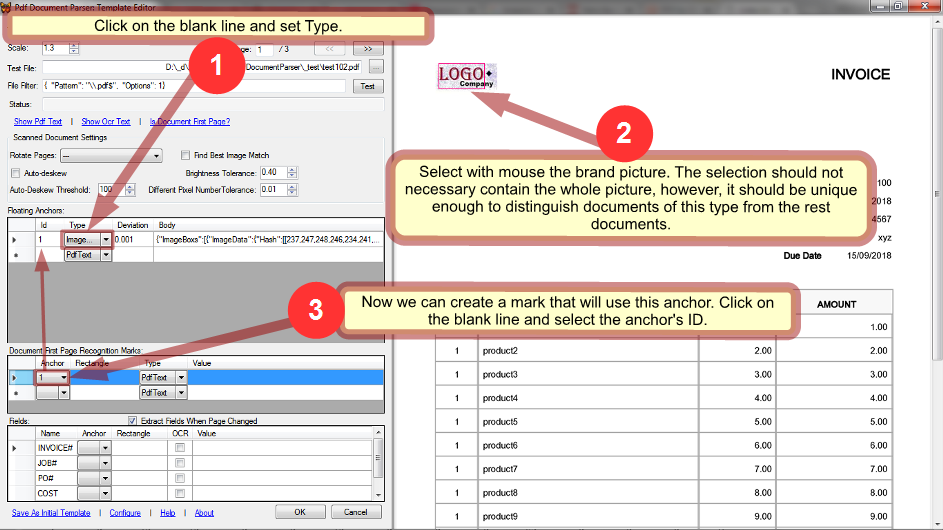
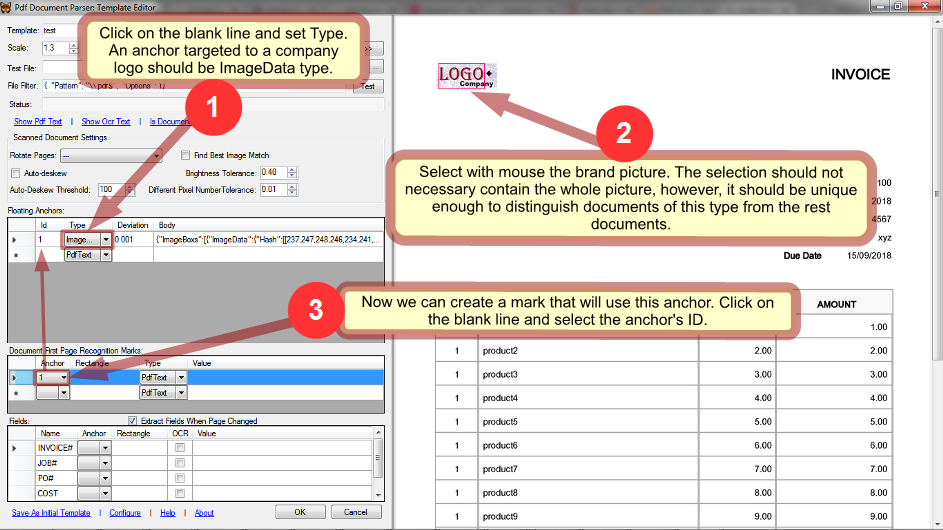
.

Changed region(s): [[0.0, 0.0, 0.4613, 0.4226]]

diff --git a/help/help/tutorial/index.html b/help/help/tutorial/index.html
@@ -19,10 +19,10 @@
 <p>How do those anchor and mark work inside the parser? In every page Parser looks for the fragment defined by the anchor. Depending on its type it can be either PDF text, OCR'ed text, or image. Each of types is processed by its own very different way and so choosing the right type is crucial in successful and robust parsing. The logo in our example document is an image that is why we set anchor's type to ImageData. This means that Parser will look for the image we selected while creating the anchor. 
 <p>An anchor can be found anywhere on page. In general way, having an anchor found, Parser takes the selecting rectangle specified by a mark linked to this anchor and locates it relatively to the anchor's position in page. Then Parser compares a text surrounded by the rectangle with the text defined in the mark and when they are equal, the mark is considered found. 
 <p>But a mark does not obligatory have a selecting rectangle specified. In such a simpler case it is considered found just when its anchor found. It is the case in our example: Parser will look for the logo image and if found, it will choose this template for processing of the document.
-<br><br><p>Now, besides the first mark which is a must, a template usually needs one more mark that will check number of document page. It is necessary when parsing a multi-document PDF file: when Parser finds such a mark, all the previously found fields are recorded and reset.
+<br><br><p>In addition to the first mark which is a must, a template usually needs one more mark that checks if a page is page 1 of a document. It is necessary when parsing a multi-document PDF file: when Parser finds such a mark, all the previously found fields are recorded and reset.
 <p class='screenshot_title'>So let's create a first page recognition mark:
 <img src='3.png'/>
-<p>Our template has 2 marks that can recognize type and first page of document. Sometimes more mark is required: for instance when we need to parse different type documents issued by the same company. In our example 2 marks we created are sufficient though. 
+<p>Now our template has 2 marks that can recognize type and first page of document. Sometimes more mark is required: for instance when we need to parse different type documents issued by the same company. In our example 2 marks we created are sufficient though. 
 <p><span class='attention'>NOTE: </span>when you select a line in either table, Parser processes it on the current page and the result is displayed in the page viewer and in Status.
 
 <h2>3. Create fields</h2>

diff --git a/InvoiceParser/MainForm.Designer.cs b/InvoiceParser/MainForm.Designer.cs
@@ -28,7 +28,7 @@
         /// </summary>
         private void InitializeComponent()
         {
-            System.Windows.Forms.DataGridViewCellStyle dataGridViewCellStyle4 = new System.Windows.Forms.DataGridViewCellStyle();
+            System.Windows.Forms.DataGridViewCellStyle dataGridViewCellStyle1 = new System.Windows.Forms.DataGridViewCellStyle();
             this.bAbout = new System.Windows.Forms.Button();
             this.bInputFolder = new System.Windows.Forms.Button();
             this.bOutputFolder = new System.Windows.Forms.Button();
@@ -57,6 +57,7 @@
             this.flowLayoutPanel2 = new System.Windows.Forms.FlowLayoutPanel();
             this.namePattern = new System.Windows.Forms.TextBox();
             this.groupBox1 = new System.Windows.Forms.GroupBox();
+            this.label10 = new System.Windows.Forms.Label();
             this.useNamePattern = new System.Windows.Forms.CheckBox();
             this.useGroupPattern = new System.Windows.Forms.CheckBox();
             this.useActivePattern = new System.Windows.Forms.CheckBox();
@@ -70,12 +71,11 @@
             this.groupPattern = new System.Windows.Forms.TextBox();
             this.label4 = new System.Windows.Forms.Label();
             this.groupBox2 = new System.Windows.Forms.GroupBox();
-            this.label9 = new System.Windows.Forms.Label();
             this.applyActiveChange = new System.Windows.Forms.Button();
             this.applyGroupChange = new System.Windows.Forms.Button();
             this.activeChange = new System.Windows.Forms.CheckBox();
             this.groupChange = new System.Windows.Forms.TextBox();
-            this.label10 = new System.Windows.Forms.Label();
+            this.label9 = new System.Windows.Forms.Label();
             ((System.ComponentModel.ISupportInitialize)(this.templates)).BeginInit();
             this.flowLayoutPanel1.SuspendLayout();
             this.flowLayoutPanel2.SuspendLayout();
@@ -214,8 +214,8 @@
             // Name_
             // 
             this.Name_.AutoSizeMode = System.Windows.Forms.DataGridViewAutoSizeColumnMode.AllCells;
-            dataGridViewCellStyle4.Alignment = System.Windows.Forms.DataGridViewContentAlignment.TopLeft;
-            this.Name_.DefaultCellStyle = dataGridViewCellStyle4;
+            dataGridViewCellStyle1.Alignment = System.Windows.Forms.DataGridViewContentAlignment.TopLeft;
+            this.Name_.DefaultCellStyle = dataGridViewCellStyle1;
             this.Name_.HeaderText = "Name";
             this.Name_.Name = "Name_";
             this.Name_.Width = 60;
@@ -383,6 +383,15 @@
             this.groupBox1.TabStop = false;
             this.groupBox1.Text = "Select";
             // 
+            // label10
+            // 
+            this.label10.AutoSize = true;
+            this.label10.Location = new System.Drawing.Point(34, 156);
+            this.label10.Name = "label10";
+            this.label10.Size = new System.Drawing.Size(40, 13);
+            this.label10.TabIndex = 39;
+            this.label10.Text = "Select:";
+            // 
             // useNamePattern
             // 
             this.useNamePattern.AutoSize = true;
@@ -509,14 +518,6 @@
             this.groupBox2.TabStop = false;
             this.groupBox2.Text = "Change Selected";
             // 
-            // label9
-            // 
-            this.label9.Location = new System.Drawing.Point(479, 406);
-            this.label9.Name = "label9";
-            this.label9.Size = new System.Drawing.Size(258, 29);
-            this.label9.TabIndex = 32;
-            this.label9.Text = "Your approval will be asked before saving templates to disk!";
-            // 
             // applyActiveChange
             // 
             this.applyActiveChange.Location = new System.Drawing.Point(15, 28);
@@ -553,14 +554,14 @@
             this.groupChange.Size = new System.Drawing.Size(192, 20);
             this.groupChange.TabIndex = 21;
             // 
-            // label10
+            // label9
             // 
-            this.label10.AutoSize = true;
-            this.label10.Location = new System.Drawing.Point(34, 156);
-            this.label10.Name = "label10";
-            this.label10.Size = new System.Drawing.Size(40, 13);
-            this.label10.TabIndex = 39;
-            this.label10.Text = "Select:";
+            this.label9.Anchor = ((System.Windows.Forms.AnchorStyles)((System.Windows.Forms.AnchorStyles.Top | System.Windows.Forms.AnchorStyles.Right)));
+            this.label9.Location = new System.Drawing.Point(479, 406);
+            this.label9.Name = "label9";
+            this.label9.Size = new System.Drawing.Size(258, 29);
+            this.label9.TabIndex = 32;
+            this.label9.Text = "Your approval will be asked before saving templates to disk!";
             // 
             // MainForm
             // 

diff --git a/InvoiceParser/Program.cs b/InvoiceParser/Program.cs
@@ -12,7 +12,7 @@ using System.Windows.Forms;
 namespace Cliver.InvoiceParser
 {
     /*
- TBD: 
+ TBD:
 
  - ? Template not enherited but embedded
  - MainForm to WPF;
